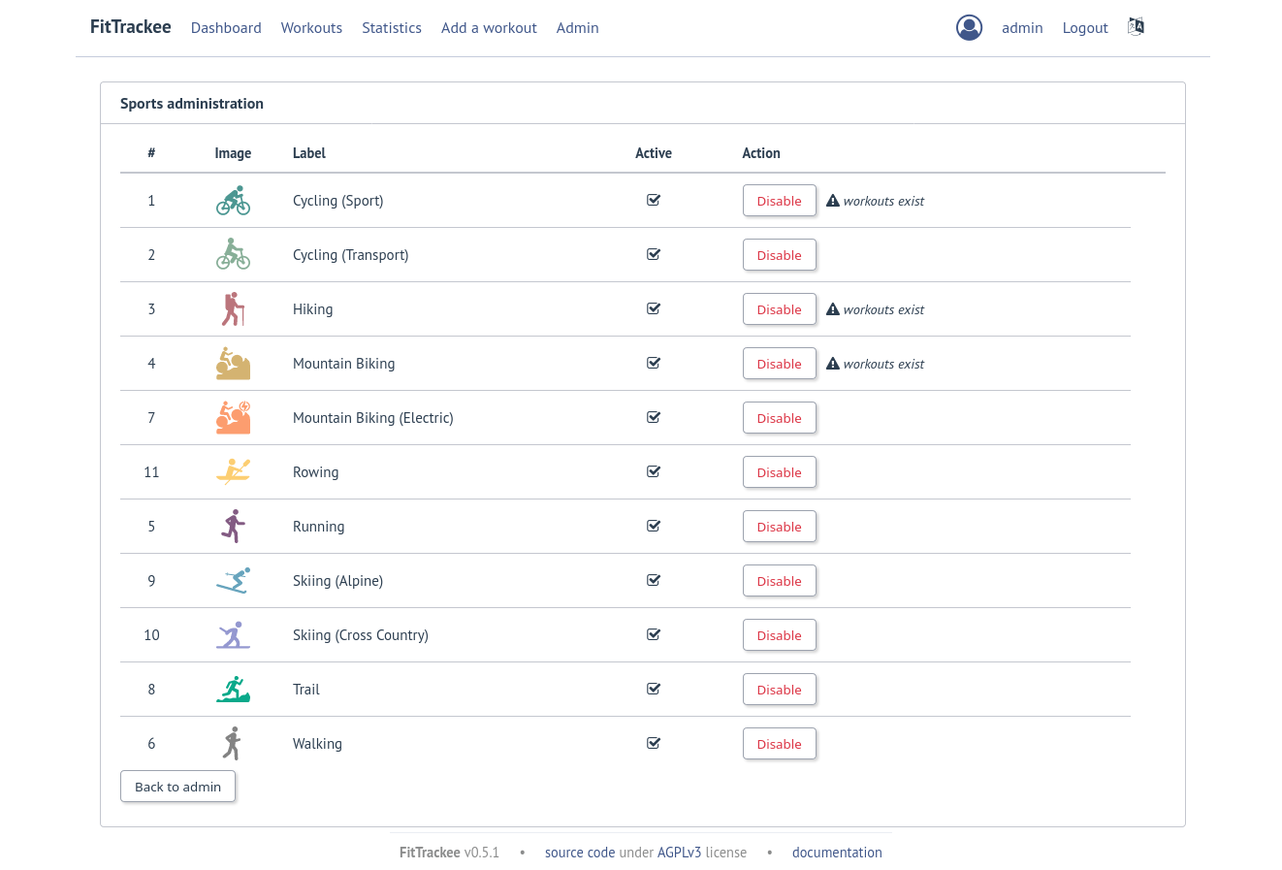
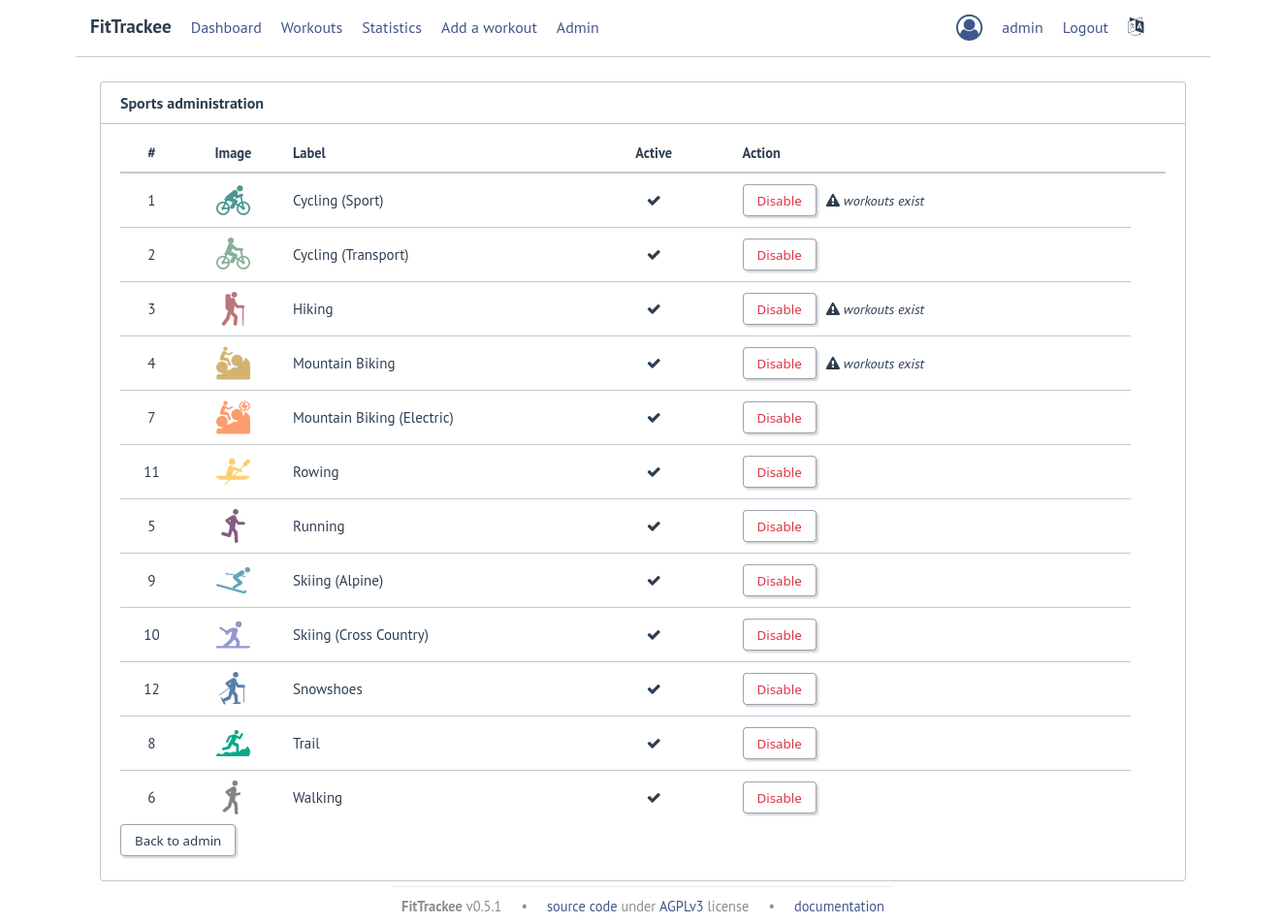
update documentation

diff --git a/docs/searchindex.js b/docs/searchindex.js
@@ -1,1 +1,1 @@
-Search.setIndex({docnames:["api/auth","api/configuration","api/index","api/records","api/sports","api/stats","api/users","api/workouts","changelog","features","index","installation","troubleshooting/administrator","troubleshooting/index","troubleshooting/user"],envversion:{"sphinx.domains.c":2,"sphinx.domains.changeset":1,"sphinx.domains.citation":1,"sphinx.domains.cpp":4,"sphinx.domains.index":1,"sphinx.domains.javascript":2,"sphinx.domains.math":2,"sphinx.domains.python":3,"sphinx.domains.rst":2,"sphinx.domains.std":2,sphinx:56},filenames:["api/auth.rst","api/configuration.rst","api/index.rst","api/records.rst","api/sports.rst","api/stats.rst","api/users.rst","api/workouts.rst","changelog.md","features.rst","index.rst","installation.rst","troubleshooting/administrator.rst","troubleshooting/index.rst","troubleshooting/user.rst"],objects:{"":[[0,0,1,"post--api-auth-login","/api/auth/login"],[0,1,1,"get--api-auth-logout","/api/auth/logout"],[0,0,1,"post--api-auth-password-reset-request","/api/auth/password/reset-request"],[0,0,1,"post--api-auth-password-update","/api/auth/password/update"],[0,2,1,"delete--api-auth-picture","/api/auth/picture"],[0,0,1,"post--api-auth-picture","/api/auth/picture"],[0,1,1,"get--api-auth-profile","/api/auth/profile"],[0,0,1,"post--api-auth-profile-edit","/api/auth/profile/edit"],[0,0,1,"post--api-auth-profile-edit-preferences","/api/auth/profile/edit/preferences"],[0,0,1,"post--api-auth-profile-edit-sports","/api/auth/profile/edit/sports"],[0,0,1,"post--api-auth-register","/api/auth/register"],[1,1,1,"get--api-config","/api/config"],[1,3,1,"patch--api-config","/api/config"],[1,1,1,"get--api-ping","/api/ping"],[3,1,1,"get--api-records","/api/records"],[4,1,1,"get--api-sports","/api/sports"],[4,1,1,"get--api-sports-(int-sport_id)","/api/sports/(int:sport_id)"],[4,3,1,"patch--api-sports-(int-sport_id)","/api/sports/(int:sport_id)"],[5,1,1,"get--api-stats-(user_name)-by_sport","/api/stats/(user_name)/by_sport"],[5,1,1,"get--api-stats-(user_name)-by_time","/api/stats/(user_name)/by_time"],[5,1,1,"get--api-stats-all","/api/stats/all"],[6,1,1,"get--api-users","/api/users"],[6,2,1,"delete--api-users-(user_name)","/api/users/(user_name)"],[6,1,1,"get--api-users-(user_name)","/api/users/(user_name)"],[6,3,1,"patch--api-users-(user_name)","/api/users/(user_name)"],[6,1,1,"get--api-users-(user_name)-picture","/api/users/(user_name)/picture"],[7,1,1,"get--api-workouts","/api/workouts"],[7,0,1,"post--api-workouts","/api/workouts"],[7,2,1,"delete--api-workouts-(string-workout_short_id)","/api/workouts/(string:workout_short_id)"],[7,1,1,"get--api-workouts-(string-workout_short_id)","/api/workouts/(string:workout_short_id)"],[7,3,1,"patch--api-workouts-(string-workout_short_id)","/api/workouts/(string:workout_short_id)"],[7,1,1,"get--api-workouts-(string-workout_short_id)-chart_data","/api/workouts/(string:workout_short_id)/chart_data"],[7,1,1,"get--api-workouts-(string-workout_short_id)-chart_data-segment-(int-segment_id)","/api/workouts/(string:workout_short_id)/chart_data/segment/(int:segment_id)"],[7,1,1,"get--api-workouts-(string-workout_short_id)-gpx","/api/workouts/(string:workout_short_id)/gpx"],[7,1,1,"get--api-workouts-(string-workout_short_id)-gpx-download","/api/workouts/(string:workout_short_id)/gpx/download"],[7,1,1,"get--api-workouts-(string-workout_short_id)-gpx-segment-(int-segment_id)","/api/workouts/(string:workout_short_id)/gpx/segment/(int:segment_id)"],[7,1,1,"get--api-workouts-map-(map_id)","/api/workouts/map/(map_id)"],[7,0,1,"post--api-workouts-no_gpx","/api/workouts/no_gpx"],[11,4,1,"-","APP_LOG"],[11,4,1,"-","APP_SECRET_KEY"],[11,4,1,"-","APP_SETTINGS"],[11,4,1,"-","APP_WORKERS"],[11,4,1,"-","DATABASE_DISABLE_POOLING"],[11,4,1,"-","DATABASE_URL"],[11,4,1,"envvar-DEFAULT_STATICMAP","DEFAULT_STATICMAP \ud83c\udd95"],[11,4,1,"-","EMAIL_URL"],[11,4,1,"-","FLASK_APP"],[11,4,1,"-","HOST"],[11,4,1,"-","MAP_ATTRIBUTION"],[11,4,1,"-","PORT"],[11,4,1,"-","REDIS_URL"],[11,4,1,"-","SENDER_EMAIL"],[11,4,1,"-","TILE_SERVER_URL"],[11,4,1,"-","UI_URL"],[11,4,1,"-","UPLOAD_FOLDER"],[11,4,1,"-","VUE_APP_API_URL"],[11,4,1,"-","WEATHER_API_KEY"],[11,4,1,"-","WORKERS_PROCESSES"]],"/api/workouts/map_tile/(s)/(z)/(x)/(y)":[[7,1,1,"get--api-workouts-map_tile-(s)-(z)-(x)-(y).png","png"]]},objnames:{"0":["http","post","HTTP post"],"1":["http","get","HTTP get"],"2":["http","delete","HTTP delete"],"3":["http","patch","HTTP patch"],"4":["std","envvar","environment variable"]},objtypes:{"0":"http:post","1":"http:get","2":"http:delete","3":"http:patch","4":"std:envvar"},terms:{"0":[0,1,3,4,5,6,7,9,10,11],"00":[0,3,6,7],"000000":0,"01":[0,3,5,6,7,10],"02":[7,10],"03":[6,7,10],"04":[7,10],"06":5,"07":[0,3,6,7,10],"08":[0,3,6],"09":[0,6,10],"0mb":[0,7],"1":[0,1,3,4,5,6,7,9,10,11],"10":[0,1,3,6,7,10,11],"100":[7,8,9],"1000":5,"101":8,"104":8,"1048576":1,"10485760":1,"109":8,"11":[0,3,6,9,10],"115":8,"116":8,"12":[0,3,6,7,10],"1232004":7,"12341":5,"1234538":7,"1267":5,"127":11,"13":[7,8],"14":[0,6,7,10],"15":[5,7,10],"150":5,"156":5,"1563529507772":7,"16":[5,7,10],"17":[7,10,11],"178":5,"18":[0,3,6,7,8],"19":10,"2":[0,1,3,4,5,6,7,10,11],"20":6,"200":[0,1,3,4,5,6,7],"201":[0,7],"2017":[5,7],"2018":[5,7,10],"2019":[0,3,5,6,7,10],"2020":10,"2021":10,"203":5,"204":[0,6,7],"21":10,"22":[7,8],"23":10,"24":8,"25":[8,11],"26":8,"27":[0,6],"279":7,"28":8,"280":7,"282":5,"29":10,"2930":7,"2e1ee2c":8,"3":[0,4,5,6,7,9,10,11],"30":[5,10],"3000":11,"301":11,"31":[7,10],"33":8,"34":8,"34614d5":8,"36":8,"37":8,"39":7,"4":[0,4,5,6,7,10,11],"40":8,"400":[0,1,4,7],"401":[0,1,3,4,5,6,7],"403":[0,1,4,5,6,7],"404":[0,4,5,6,7],"41":8,"4109":7,"413":[0,7],"43":8,"44":[7,8],"443":11,"45":7,"46":[5,8],"465":11,"47":[5,7,8],"48":5,"4c3fc34":8,"5":[1,4,5,6,7,9,10,11],"50":[0,6,8],"500":[0,1,4,6,7],"5000":11,"5078118":7,"5079733":7,"51":7,"53":8,"54":8,"5432":11,"57":[7,8],"58":[0,6,8],"587":11,"59":8,"6":[0,4,6,7,10],"613":5,"62":8,"63":7,"64":8,"66":8,"67":[0,6],"7":[7,10,11],"70":8,"71":8,"72":8,"7380":7,"75":8,"78":5,"79":8,"8":[0,7,10],"80":[8,11],"8025":11,"81":8,"82":8,"83":8,"84":8,"895":[0,6],"9":[0,3,6,10,11],"90":8,"91":8,"93":8,"95":[5,8],"98":8,"99":[5,8],"9960":5,"boolean":[0,1,6],"case":9,"default":[5,6,7,8,9,11],"do":[1,4,5,6,7],"export":10,"float":[0,7],"import":[8,11],"int":[4,7],"new":[0,9,11],"null":[0,4,6,7],"return":[3,7,11],"short":7,"static":[8,11],"switch":8,"true":[0,1,4,6,8,11],"try":[0,6,7],A:[6,8,9],AS:[0,3,6,7],For:[9,11],If:[9,11],In:[8,9],It:[8,9,10,12],NO:[0,6,7],NOT:[0,4,7],No:[0,6,7,8,10],Not:[4,5,6,7],OF:11,ON:11,On:11,One:11,TO:11,The:[8,9,11],There:11,To:11,WITH:11,With:11,_:8,__main__:11,_blank:11,access:11,account:[6,8],acit:7,activ:[4,8,9,10,11],ad:[0,8,9],adapt:11,add:[6,8,9,10],addit:11,address:11,admin:[0,1,3,4,5,6,7,8,9,11],administr:[0,6,7,10,13],after:[8,11],again:[0,1,3,4,5,6,7],agplv3:8,all:[3,4,5,6,11],allow:[0,1,7,8,10],along:7,alpin:9,alreadi:0,also:[8,10,11],altitud:8,alwai:11,an:[1,4,6,7,8,9,11],android:10,anoth:[6,11],anymor:8,apach:10,api:[0,1,3,4,5,6,7,8,9,10,11],apikei:11,app:10,app_log:11,app_secret_kei:11,app_set:11,app_work:11,appear:9,applic:[0,1,3,4,5,6,7,8,9,10,11],ar:[3,7,8,9,10,11,12],arch:11,archiv:[1,8,9,11],archlinux:11,asc:6,ascent:[7,9],attribut:11,auth:[0,1,3,4,5,6,7],auth_token:0,authent:[1,2,3,4,7,10],author:[0,1,3,4,5,6,7],avail:[0,3,9,10,11],ave_spe:7,ave_speed_from:7,ave_speed_to:7,averag:[3,7,8,9],average_spe:5,axi:7,b862a77:8,b:11,background:8,backup:11,bad:[0,1,4,7],bearer:[0,1,3,4,5,6,7],becom:8,been:8,befor:[8,11],begin:11,better:8,between:9,bike:[4,7,8,9],bin:11,bio:[0,6],biographi:0,birth:[0,8],birth_dat:[0,6],bound:7,build:11,button:8,by_sport:5,by_tim:5,c:7,calcul:8,calendar:[8,9],can:[6,8,9,10,11,12],cannot:8,cd:11,chang:[9,10,11],charact:[0,8],chart:[7,8,9,11],chart_data:7,check:[1,11,12],choos:[8,9],client:[8,11],client_max_body_s:11,clone:11,code:[0,1,3,4,5,6,7],color:[0,4,8,9],com:[0,6,11],complet:8,config:[1,11],configur:[2,8,9,10,11],confirm:0,contact:[0,6,7],contain:[8,9,11],content:[0,1,3,4,5,6,7],contributor:[1,8,11],control:8,coordin:11,copi:[1,11],copyright:[1,11],correctli:8,countri:9,cp:11,creat:[0,7,8,9,11],create_app:11,created_at:[0,6],creation:[8,9],creation_d:7,credenti:[0,11],criteria:6,cross:9,current:8,custom:11,cycl:[4,8,9],d:[0,5,7],dai:[8,9],dark:11,darkski:[8,9],dashboard:[8,10],data:[0,1,3,4,5,6,7,8,9,10,11],databas:[8,9,11,12],database_disable_pool:11,database_url:[8,11],date:[0,5,7,8,9],db:11,debian:11,default_staticmap:[8,11],defin:9,definit:8,delet:[0,6,7,8,9],depend:[8,11],deploy:10,desc:7,descent:[7,9],describ:11,descript:11,detail:[6,8,10],develop:[8,10],dialect:12,differ:8,directli:11,directori:[8,11],disabl:[0,8,9,11],displai:[7,8,9,10,11,12],distanc:[3,7,8,9],distance_from:7,distance_to:7,distribut:11,docker:[8,10],document:[8,10,11],doe:[0,5,6,7,8],don:0,down:8,download:[7,8,9,11],dramatiq:11,drop:8,dropdown:9,due:8,durat:[3,7,8,9],duration_from:7,duration_to:7,dure:[0,7],easi:8,edit:[0,8,9],electr:9,elev:[7,8,9,11],els:11,email:[0,6,8],email_url:11,empti:8,en:[0,6],enabl:[1,9],encount:11,end:[5,7],endpoint:[1,8],engin:[8,11,12],english:9,enter:[8,9],entiti:[0,7],entri:11,env:11,environ:[8,10,12],error:[0,1,4,6,7,8,9,11,12],europ:[0,6],evalu:[8,11],even:[8,9],exampl:[0,1,3,4,5,6,7,10,11],exc:12,exce:[0,7],exceed:8,except:6,execstart:11,exhaust:10,exist:[0,5,6,7,9,10,11],expir:[0,1,3,4,5,6,7],extens:[0,7],fa33f4d996844a5c73ecd1ae24456ab8:7,fail:[8,13],fals:[0,1,4,6,7,11],farest:[3,8,9],fd:[0,3,6,7],featur:[10,11],fetch:11,file:[0,1,7,8,9,10,11],filter:[8,9],first:[0,9,10],first_nam:[0,6],fitotrack:10,fittracke:[9,11,13],fittrackee_cli:11,fittrackee_init_data:11,fittrackee_upgrade_db:11,fittrackee_work:11,fix:10,flask:11,flask_app:11,flaticon:11,fmstrat:8,follow:[3,9,11,12],forbidden:[0,1,4,5,6,7],forecast:11,form:[0,7],format:[0,5,7],former:11,forrunn:10,forward:11,found:[0,4,5,6,7],fr:6,frame:5,freepik:11,french:[9,10],fri:7,from:[5,7,8,10],full:8,fullchain:11,gener:[8,11],get:[0,1,3,4,5,6,7],gif:0,git:11,github:11,given:11,gmt:[0,3,6,7],gpl:10,gpx:[7,8,9,10,11],gpx_limit_import:1,gpxpy:[0,9,11],grant:11,graph:8,greater:8,gunicorn:[11,12],gz:11,h:[7,9],ha:[6,9],handl:[0,9,11],has_workout:4,have:[1,4,5,6,7,8],he:6,header:[0,1,3,4,5,6,7],health:1,heavi:[10,11],hexadecim:0,hi:[6,8,9],hike:[4,8,9],home:11,host:11,href:[1,11],http:[0,1,3,4,5,6,7,11],hvybqybra7wwxpastwr4v2:[0,3,6],i18n:8,icon:11,id:[0,3,4,5,6,7],imag:[0,6,7,8,9,11],imperi:[8,9],imperial_unit:[0,6],improv:10,incorrect:8,index:7,info:0,inform:[8,10,11],init:11,initi:11,initialis:11,insid:11,instal:[8,10],instanc:[1,9,11],instead:9,integ:[1,4,5,6,7],interceptor:8,interfac:11,intern:[0,1,4,6,7],introduc:8,invalid:[0,1,3,4,5,6,7,8,11],io:11,ip:11,is_act:[0,4],is_active_for_us:4,is_registration_en:1,issu:[10,11],jan:7,javascript:8,john_do:6,jpeg:6,jpg:0,js:11,json:[0,1,3,4,5,6,7],jul:[0,3,6,7],keep:[8,10,11],kei:[8,9,11],kjxavsturjvoah2wvcegef:7,km:[7,9],label:4,languag:[0,6,9],larg:[0,7,9],larger:11,last:[0,11],last_nam:[0,6],latitud:7,layer:[8,11],ld:[0,3,6,7],leaflet:[7,11],least:7,less:8,librari:11,licens:[8,10],like:[9,11],limit:[8,9],link:11,linux:11,list:[8,10,11],listen:11,load:[8,12],local:[8,10,11],localhost:11,locat:[0,6,11],log:[0,1,3,4,5,6,7,10,11,12],logfil:11,login:0,logo:11,logout:[0,8],longer:[8,12],longest:[3,8,9],longitud:7,m:[0,5,7],made:11,mai:[9,10,11],mailhog:11,major:8,make:[8,11],makefil:11,manag:8,mandatori:[7,8,11],map:[7,8,9,10],map_attribut:[1,11],map_id:7,map_til:7,match:0,max:[1,6,7,8],max_alt:7,max_single_file_s:1,max_spe:7,max_speed_from:7,max_speed_to:7,max_us:1,max_zip_file_s:1,maxim:7,maximum:[3,8,9],messag:[0,1,7,8],method:11,metric:9,migrat:8,min:8,min_alt:7,minim:7,minor:10,miss:8,mobil:10,model:8,modifi:[6,8],modification_d:7,modul:11,mon:7,mondai:[0,5,9],montain:8,month:[5,8,9],more:[8,9,10,11],morn:7,mountain:[4,9],mous:8,move:[7,8],movement:8,mpwoadmin:11,ms:[0,3,6,7],multi:11,multipart:[0,7],must:[0,1,4,8,9,11,12],mv:11,n:0,name:[0,5,6,11],nano:11,nb_sport:[0,6],nb_workout:[0,5,6],necessari:[9,11],need:11,network:11,next:9,next_workout:7,nginx:[9,11],no_gpx:7,non:[4,10],noopen:11,noreferr:11,nosuchmoduleerror:12,note:[7,8,9,11],now:[8,9,11],number:[1,6,7,8,9,11],oauth:[0,1,3,4,5,6,7],object:[0,1,4,6,7],ok:[0,1,3,4,5,6,7],one:[6,7,9],onli:[6,7,8,9,11],open:[10,11],openstreetmap:[1,8,11],opentrack:10,option:[8,11],order:[6,7,8],order_bi:6,org:[1,11],os:11,other:[6,11],out:0,outdoor:[8,10,11],over:8,overrid:9,overridden:9,overwrit:11,own:[6,10],owner:[8,9],packag:[8,11],paf38:8,page:[6,7],pagin:[6,7],par_pag:6,paramet:[0,4,5,6,7,8,9],pari:[0,6],pars:11,part:[0,7],pass:11,password:[0,8,9,11],password_conf:0,patch:[1,4,6,7],path:11,paus:[7,8],payload:[0,1,4,7],pem:11,per:[6,7,8],per_pag:[6,7],period:9,permiss:[1,4,5,6,7],pg_dump:11,pictur:[0,6,7],ping:1,pip:11,pipenv:8,pleas:[0,1,3,4,5,6,7,8],plugin:12,png:[0,7,11],poetri:[8,11],point:[8,11],pong:1,pool:11,port:11,possibl:[8,10],post:[0,7],postgr:[8,12],postgresql:[8,11,12],prefer:[0,8],prerequisit:10,previous_workout:7,privileg:11,privkei:11,process:[0,9,11],productionconfig:11,profil:0,project:11,provid:[0,1,3,4,5,6,7,8,9,11],proxi:11,proxy_add_x_forwarded_for:11,proxy_pass:11,proxy_redirect:11,proxy_set_head:11,pull:11,purpos:[8,11],pwd:11,py:11,pypi:10,python:[8,11],q:6,queri:[5,6,7],queue:11,r:11,rais:9,read:8,real:11,rebuild:8,rechart:7,recommend:11,record:[0,2,6,7,8,9,10],record_typ:[0,3,6,7],redi:[8,11],redis_url:11,refactor:8,regist:[0,1,11],registr:[0,1,8,9],rel:11,relat:[9,11],releas:[10,11],remain:8,remote_addr:11,remov:9,renam:8,replac:[8,11],repo:11,repositori:11,request:[0,1,3,4,5,6,7],request_uri:11,requir:0,reset:[0,8,9],respons:[0,1,3,4,5,6,7],restart:11,restartsec:11,right:[6,8,9],rout:8,row:9,run:[4,8,9,11],runner:10,s:[6,7,8,9,11],sam:[0,6],same:8,samr1:11,sat:6,save:[8,9],schema:11,screen:8,search:8,second:7,secret:11,see:[8,9,10,11],seem:8,segment:[7,8,9],segment_id:7,select:[0,7],send:[8,11],sender:11,sender_email:11,serv:11,server:[0,1,4,6,7,8,9,10],server_nam:11,servic:11,set:[8,9],sever:[10,11],shell:11,should:11,show:8,shown:8,side:8,signatur:[0,1,3,4,5,6,7],simpl:11,simplifi:8,sinc:11,singl:[1,6],size:[0,1,7,8,9],ski:9,sky:11,slow:8,smtp:11,some:[6,7,8,10,11],sorri:0,sort:[6,7],sourc:10,spawn:11,speed:[0,3,7,8,9,11],spinner:8,sport:[0,2,5,7,8,9,10,11],sport_id:[0,3,4,5,6,7],sports_list:[0,6],sql:11,sqlalchemi:[8,11,12],ssl:11,ssl_certif:11,ssl_certificate_kei:11,standard:[8,11],standarderror:11,standardoutput:11,start:[0,5,7,8,9,11,13],startlimitintervalsec:11,starttl:11,stat:[5,8],staticmap:11,statist:[2,10],statu:[0,1,3,4,5,6,7],step:11,still:[9,10],stop:[0,8,9,11],stopped_speed_threshold:[0,4],store:[9,10],street:10,string:[0,4,5,6,7],subdomain:7,success:[0,1,3,4,5,6,7],successfulli:0,sun:[0,3,6,7],sundai:[5,7,9],support:[8,9,12],syslog:11,syslogidentifi:11,system:[9,11],systemd:11,t:[0,12],tar:11,target:11,task:11,term:[8,11],test:11,textarea:8,than:8,thank:8,thei:11,them:10,thi:[7,8,9,10,11],threshold:[0,8,9],thunderforest:[8,11],tile:[7,8],tile_server_url:11,time:[0,5,7,8,9],timezon:[0,6,8,9],titl:7,tl:11,todo:14,token:[0,1,3,4,5,6,7],too:[0,7],tool:11,tooltip:8,total:[8,9],total_asc:5,total_dist:[0,5,6],total_dur:[0,5,6],track:10,trail:9,transport:[4,8,9],troubleshoot:10,type:[0,1,3,4,5,6,7,11],typescript:11,u:11,ui:8,ui_url:11,unauthor:[0,1,3,4,5,6,7],under:[10,11],unencrypt:11,unit:[8,11],unstabl:[10,11],up:[9,10],updat:[0,1,4,6,7,8,9,11],upload:[8,9,11],upload_fold:11,uploads_dir_s:5,url:[8,11,12],us:[0,6,7,8,9,10,11],user:[0,1,2,3,4,5,7,8,9,10,11,13],user_id:0,user_nam:[5,6],usernam:[0,6,11],uuid:[7,8],v0:11,v3:10,valid:[0,1,3,4,5,6,7,11],valu:[0,3,6,7],variabl:[8,10,12],venv:11,version:[1,10,11],view:8,virtualenv:11,vue3:11,vue:11,vue_app_api_url:11,vuex:11,wa:8,wai:11,walk:[4,8,9],wantedbi:11,warn:8,weather:[8,9,11],weather_api:11,weather_api_kei:11,weather_end:7,weather_start:7,web:[0,10,11],week:[0,5,8,9],weekend:8,weekm:[0,5],were:8,wget:11,when:[0,1,8,9,11],where:11,which:9,with_gpx:7,without:[5,6,7,8,9,10],worker:11,workers_process:11,workingdirectori:11,workout:[0,2,5,8,10],workout_d:[0,3,6,7],workout_id:[0,3,6,7],workout_short_id:7,workouts_count:6,written:11,www:[1,11],x:[7,11],xml:7,xxxx:11,xzf:11,y:[0,5,7,11],yai:11,yarn:11,year:[5,9],yet:10,you:[1,4,5,6,7,10],your:[6,10,11],z:[7,11],zip:[1,7,8,9],zone:0,zoom:7},titles:["Authentication","Configuration","API documentation","Records","Sports","Statistics","Users","Workouts","Change log","Features","FitTrackee","Installation","Administrator","Troubleshooting","User"],titleterms:{"0":8,"01":8,"02":8,"03":8,"04":8,"07":8,"09":8,"1":8,"10":8,"11":8,"12":8,"14":8,"15":8,"16":8,"17":8,"19":8,"2":8,"2018":8,"2019":8,"2020":8,"2021":8,"21":8,"23":8,"29":8,"3":8,"30":8,"31":8,"4":8,"5":8,"6":8,"7":8,"8":8,"9":8,"new":8,account:9,administr:[8,9,12],api:2,authent:0,avail:8,bug:8,chang:8,close:8,configur:1,content:10,dashboard:9,deploy:11,detail:9,dev:11,develop:11,docker:11,document:2,email:11,endpoint:[2,13],environ:11,fail:12,featur:[8,9],first:8,fittracke:[8,10,12],fix:8,french:8,from:11,improv:8,instal:11,issu:8,list:9,log:8,map:11,minor:8,misc:8,prefer:9,prerequisit:11,prod:11,product:11,pull:8,pypi:[8,11],record:3,releas:8,request:8,server:11,sourc:11,sport:4,start:12,statist:[5,8,9],tabl:10,tile:11,translat:9,troubleshoot:13,upgrad:11,user:[6,14],variabl:11,version:8,workout:[7,9]}})
+Search.setIndex({docnames:["api/auth","api/configuration","api/index","api/records","api/sports","api/stats","api/users","api/workouts","changelog","features","index","installation","troubleshooting/administrator","troubleshooting/index","troubleshooting/user"],envversion:{"sphinx.domains.c":2,"sphinx.domains.changeset":1,"sphinx.domains.citation":1,"sphinx.domains.cpp":4,"sphinx.domains.index":1,"sphinx.domains.javascript":2,"sphinx.domains.math":2,"sphinx.domains.python":3,"sphinx.domains.rst":2,"sphinx.domains.std":2,sphinx:56},filenames:["api/auth.rst","api/configuration.rst","api/index.rst","api/records.rst","api/sports.rst","api/stats.rst","api/users.rst","api/workouts.rst","changelog.md","features.rst","index.rst","installation.rst","troubleshooting/administrator.rst","troubleshooting/index.rst","troubleshooting/user.rst"],objects:{"":[[0,0,1,"post--api-auth-login","/api/auth/login"],[0,1,1,"get--api-auth-logout","/api/auth/logout"],[0,0,1,"post--api-auth-password-reset-request","/api/auth/password/reset-request"],[0,0,1,"post--api-auth-password-update","/api/auth/password/update"],[0,2,1,"delete--api-auth-picture","/api/auth/picture"],[0,0,1,"post--api-auth-picture","/api/auth/picture"],[0,1,1,"get--api-auth-profile","/api/auth/profile"],[0,0,1,"post--api-auth-profile-edit","/api/auth/profile/edit"],[0,0,1,"post--api-auth-profile-edit-preferences","/api/auth/profile/edit/preferences"],[0,0,1,"post--api-auth-profile-edit-sports","/api/auth/profile/edit/sports"],[0,0,1,"post--api-auth-register","/api/auth/register"],[1,1,1,"get--api-config","/api/config"],[1,3,1,"patch--api-config","/api/config"],[1,1,1,"get--api-ping","/api/ping"],[3,1,1,"get--api-records","/api/records"],[4,1,1,"get--api-sports","/api/sports"],[4,1,1,"get--api-sports-(int-sport_id)","/api/sports/(int:sport_id)"],[4,3,1,"patch--api-sports-(int-sport_id)","/api/sports/(int:sport_id)"],[5,1,1,"get--api-stats-(user_name)-by_sport","/api/stats/(user_name)/by_sport"],[5,1,1,"get--api-stats-(user_name)-by_time","/api/stats/(user_name)/by_time"],[5,1,1,"get--api-stats-all","/api/stats/all"],[6,1,1,"get--api-users","/api/users"],[6,2,1,"delete--api-users-(user_name)","/api/users/(user_name)"],[6,1,1,"get--api-users-(user_name)","/api/users/(user_name)"],[6,3,1,"patch--api-users-(user_name)","/api/users/(user_name)"],[6,1,1,"get--api-users-(user_name)-picture","/api/users/(user_name)/picture"],[7,1,1,"get--api-workouts","/api/workouts"],[7,0,1,"post--api-workouts","/api/workouts"],[7,2,1,"delete--api-workouts-(string-workout_short_id)","/api/workouts/(string:workout_short_id)"],[7,1,1,"get--api-workouts-(string-workout_short_id)","/api/workouts/(string:workout_short_id)"],[7,3,1,"patch--api-workouts-(string-workout_short_id)","/api/workouts/(string:workout_short_id)"],[7,1,1,"get--api-workouts-(string-workout_short_id)-chart_data","/api/workouts/(string:workout_short_id)/chart_data"],[7,1,1,"get--api-workouts-(string-workout_short_id)-chart_data-segment-(int-segment_id)","/api/workouts/(string:workout_short_id)/chart_data/segment/(int:segment_id)"],[7,1,1,"get--api-workouts-(string-workout_short_id)-gpx","/api/workouts/(string:workout_short_id)/gpx"],[7,1,1,"get--api-workouts-(string-workout_short_id)-gpx-download","/api/workouts/(string:workout_short_id)/gpx/download"],[7,1,1,"get--api-workouts-(string-workout_short_id)-gpx-segment-(int-segment_id)","/api/workouts/(string:workout_short_id)/gpx/segment/(int:segment_id)"],[7,1,1,"get--api-workouts-map-(map_id)","/api/workouts/map/(map_id)"],[7,0,1,"post--api-workouts-no_gpx","/api/workouts/no_gpx"],[11,4,1,"-","APP_LOG"],[11,4,1,"-","APP_SECRET_KEY"],[11,4,1,"-","APP_SETTINGS"],[11,4,1,"-","APP_WORKERS"],[11,4,1,"-","DATABASE_DISABLE_POOLING"],[11,4,1,"-","DATABASE_URL"],[11,4,1,"envvar-DEFAULT_STATICMAP","DEFAULT_STATICMAP \ud83c\udd95"],[11,4,1,"-","EMAIL_URL"],[11,4,1,"-","FLASK_APP"],[11,4,1,"-","HOST"],[11,4,1,"-","MAP_ATTRIBUTION"],[11,4,1,"-","PORT"],[11,4,1,"-","REDIS_URL"],[11,4,1,"-","SENDER_EMAIL"],[11,4,1,"-","TILE_SERVER_URL"],[11,4,1,"-","UI_URL"],[11,4,1,"-","UPLOAD_FOLDER"],[11,4,1,"-","VUE_APP_API_URL"],[11,4,1,"-","WEATHER_API_KEY"],[11,4,1,"-","WORKERS_PROCESSES"]],"/api/workouts/map_tile/(s)/(z)/(x)/(y)":[[7,1,1,"get--api-workouts-map_tile-(s)-(z)-(x)-(y).png","png"]]},objnames:{"0":["http","post","HTTP post"],"1":["http","get","HTTP get"],"2":["http","delete","HTTP delete"],"3":["http","patch","HTTP patch"],"4":["std","envvar","environment variable"]},objtypes:{"0":"http:post","1":"http:get","2":"http:delete","3":"http:patch","4":"std:envvar"},terms:{"0":[0,1,3,4,5,6,7,9,10,11],"00":[0,3,6,7],"000000":0,"01":[0,3,5,6,7,10],"02":[7,10],"03":[6,7,10],"04":[7,10],"06":5,"07":[0,3,6,7,10],"08":[0,3,6],"09":[0,6,10],"0mb":[0,7],"1":[0,1,3,4,5,6,7,9,10,11],"10":[0,1,3,6,7,10,11],"100":[7,8,9],"1000":5,"101":8,"104":8,"1048576":1,"10485760":1,"109":8,"11":[0,3,6,9,10],"115":8,"116":8,"12":[0,3,6,7,10],"1232004":7,"12341":5,"1234538":7,"1267":5,"127":11,"13":[7,8],"14":[0,6,7,10],"15":[5,7,10],"150":5,"156":5,"1563529507772":7,"16":[5,7,10],"17":[7,10,11],"178":5,"18":[0,3,6,7,8],"19":10,"2":[0,1,3,4,5,6,7,9,10,11],"20":6,"200":[0,1,3,4,5,6,7],"201":[0,7],"2017":[5,7],"2018":[5,7,10],"2019":[0,3,5,6,7,10],"2020":10,"2021":10,"203":5,"204":[0,6,7],"21":10,"22":[7,8],"23":10,"24":8,"25":[8,11],"26":8,"27":[0,6],"279":7,"28":8,"280":7,"282":5,"29":10,"2930":7,"2e1ee2c":8,"3":[0,4,5,6,7,9,10,11],"30":[5,10],"3000":11,"301":11,"31":[7,10],"33":8,"34":8,"34614d5":8,"36":8,"37":8,"39":7,"4":[0,4,5,6,7,10,11],"40":8,"400":[0,1,4,7],"401":[0,1,3,4,5,6,7],"403":[0,1,4,5,6,7],"404":[0,4,5,6,7],"41":8,"4109":7,"413":[0,7],"43":8,"44":[7,8],"443":11,"45":7,"46":[5,8],"465":11,"47":[5,7,8],"48":5,"4c3fc34":8,"5":[1,4,5,6,7,9,10,11],"50":[0,6,8],"500":[0,1,4,6,7],"5000":11,"5078118":7,"5079733":7,"51":7,"53":8,"54":8,"5432":11,"57":[7,8],"58":[0,6,8],"587":11,"59":8,"6":[0,4,6,7,10],"613":5,"62":8,"63":7,"64":8,"66":8,"67":[0,6],"7":[7,10,11],"70":8,"71":8,"72":8,"7380":7,"75":8,"78":5,"79":8,"8":[0,7,10],"80":[8,11],"8025":11,"81":8,"82":8,"83":8,"84":8,"895":[0,6],"9":[0,3,6,10,11],"90":8,"91":8,"93":8,"95":[5,8],"98":8,"99":[5,8],"9960":5,"boolean":[0,1,6],"case":9,"default":[5,6,7,8,9,11],"do":[1,4,5,6,7],"export":10,"float":[0,7],"import":[8,11],"int":[4,7],"new":[0,9,11],"null":[0,4,6,7],"return":[3,7,11],"short":7,"static":[8,11],"switch":8,"true":[0,1,4,6,8,11],"try":[0,6,7],A:[6,8,9],AS:[0,3,6,7],For:[9,11],If:[9,11],In:[8,9],It:[8,9,10,12],NO:[0,6,7],NOT:[0,4,7],No:[0,6,7,8,10],Not:[4,5,6,7],OF:11,ON:11,On:11,One:11,TO:11,The:[8,9,11],There:11,To:11,WITH:11,With:11,_:8,__main__:11,_blank:11,access:11,account:[6,8],acit:7,activ:[4,8,9,10,11],ad:[0,8,9],adapt:11,add:[6,8,9,10],addit:11,address:11,admin:[0,1,3,4,5,6,7,8,9,11],administr:[0,6,7,10,13],after:[8,11],again:[0,1,3,4,5,6,7],agplv3:8,all:[3,4,5,6,11],allow:[0,1,7,8,10],along:7,alpin:9,alreadi:0,also:[8,10,11],altitud:8,alwai:11,an:[1,4,6,7,8,9,11],android:10,anoth:[6,11],anymor:8,apach:10,api:[0,1,3,4,5,6,7,8,9,10,11],apikei:11,app:10,app_log:11,app_secret_kei:11,app_set:11,app_work:11,appear:9,applic:[0,1,3,4,5,6,7,8,9,10,11],ar:[3,7,8,9,10,11,12],arch:11,archiv:[1,8,9,11],archlinux:11,asc:6,ascent:[7,9],attribut:11,auth:[0,1,3,4,5,6,7],auth_token:0,authent:[1,2,3,4,7,10],author:[0,1,3,4,5,6,7],avail:[0,3,9,10,11],ave_spe:7,ave_speed_from:7,ave_speed_to:7,averag:[3,7,8,9],average_spe:5,axi:7,b862a77:8,b:11,background:8,backup:11,bad:[0,1,4,7],bearer:[0,1,3,4,5,6,7],becom:8,been:8,befor:[8,11],begin:11,better:8,between:9,bike:[4,7,8,9],bin:11,bio:[0,6],biographi:0,birth:[0,8],birth_dat:[0,6],bound:7,build:11,button:8,by_sport:5,by_tim:5,c:7,calcul:8,calendar:[8,9],can:[6,8,9,10,11,12],cannot:8,cd:11,chang:[9,10,11],charact:[0,8],chart:[7,8,9,11],chart_data:7,check:[1,11,12],choos:[8,9],client:[8,11],client_max_body_s:11,clone:11,code:[0,1,3,4,5,6,7],color:[0,4,8,9],com:[0,6,11],complet:8,config:[1,11],configur:[2,8,9,10,11],confirm:0,contact:[0,6,7],contain:[8,9,11],content:[0,1,3,4,5,6,7],contributor:[1,8,11],control:8,coordin:11,copi:[1,11],copyright:[1,11],correctli:8,countri:9,cp:11,creat:[0,7,8,9,11],create_app:11,created_at:[0,6],creation:[8,9],creation_d:7,credenti:[0,11],criteria:6,cross:9,current:8,custom:11,cycl:[4,8,9],d:[0,5,7],dai:[8,9],dark:11,darkski:[8,9],dashboard:[8,10],data:[0,1,3,4,5,6,7,8,9,10,11],databas:[8,9,11,12],database_disable_pool:11,database_url:[8,11],date:[0,5,7,8,9],db:11,debian:11,default_staticmap:[8,11],defin:9,definit:8,delet:[0,6,7,8,9],depend:[8,11],deploy:10,desc:7,descent:[7,9],describ:11,descript:11,detail:[6,8,10],develop:[8,10],dialect:12,differ:8,directli:11,directori:[8,11],disabl:[0,8,9,11],displai:[7,8,9,10,11,12],distanc:[3,7,8,9],distance_from:7,distance_to:7,distribut:11,docker:[8,10],document:[8,10,11],doe:[0,5,6,7,8],don:0,down:8,download:[7,8,9,11],dramatiq:11,drop:8,dropdown:9,due:8,durat:[3,7,8,9],duration_from:7,duration_to:7,dure:[0,7],easi:8,edit:[0,8,9],electr:9,elev:[7,8,9,11],els:11,email:[0,6,8],email_url:11,empti:8,en:[0,6],enabl:[1,9],encount:11,end:[5,7],endpoint:[1,8],engin:[8,11,12],english:9,enter:[8,9],entiti:[0,7],entri:11,env:11,environ:[8,10,12],error:[0,1,4,6,7,8,9,11,12],europ:[0,6],evalu:[8,11],even:[8,9],exampl:[0,1,3,4,5,6,7,10,11],exc:12,exce:[0,7],exceed:8,except:6,execstart:11,exhaust:10,exist:[0,5,6,7,9,10,11],expir:[0,1,3,4,5,6,7],extens:[0,7],fa33f4d996844a5c73ecd1ae24456ab8:7,fail:[8,13],fals:[0,1,4,6,7,11],farest:[3,8,9],fd:[0,3,6,7],featur:[10,11],fetch:11,file:[0,1,7,8,9,10,11],filter:[8,9],first:[0,9,10],first_nam:[0,6],fitotrack:10,fittracke:[9,11,13],fittrackee_cli:11,fittrackee_init_data:11,fittrackee_upgrade_db:11,fittrackee_work:11,fix:10,flask:11,flask_app:11,flaticon:11,fmstrat:8,follow:[3,9,11,12],forbidden:[0,1,4,5,6,7],forecast:11,form:[0,7],format:[0,5,7],former:11,forrunn:10,forward:11,found:[0,4,5,6,7],fr:6,frame:5,freepik:11,french:[9,10],fri:7,from:[5,7,8,10],full:8,fullchain:11,gener:[8,11],get:[0,1,3,4,5,6,7],gif:0,git:11,github:11,given:11,gmt:[0,3,6,7],gpl:10,gpx:[7,8,9,10,11],gpx_limit_import:1,gpxpy:[0,9,11],grant:11,graph:8,greater:8,gunicorn:[11,12],gz:11,h:[7,9],ha:[6,9],handl:[0,9,11],has_workout:4,have:[1,4,5,6,7,8],he:6,header:[0,1,3,4,5,6,7],health:1,heavi:[10,11],hexadecim:0,hi:[6,8,9],hike:[4,8,9],home:11,host:11,href:[1,11],http:[0,1,3,4,5,6,7,11],hvybqybra7wwxpastwr4v2:[0,3,6],i18n:8,icon:11,id:[0,3,4,5,6,7],imag:[0,6,7,8,9,11],imperi:[8,9],imperial_unit:[0,6],improv:10,incorrect:8,index:7,info:0,inform:[8,10,11],init:11,initi:11,initialis:11,insid:11,instal:[8,10],instanc:[1,9,11],instead:9,integ:[1,4,5,6,7],interceptor:8,interfac:11,intern:[0,1,4,6,7],introduc:8,invalid:[0,1,3,4,5,6,7,8,11],io:11,ip:11,is_act:[0,4],is_active_for_us:4,is_registration_en:1,issu:[10,11],jan:7,javascript:8,john_do:6,jpeg:6,jpg:0,js:11,json:[0,1,3,4,5,6,7],jul:[0,3,6,7],keep:[8,10,11],kei:[8,9,11],kjxavsturjvoah2wvcegef:7,km:[7,9],label:4,languag:[0,6,9],larg:[0,7,9],larger:11,last:[0,11],last_nam:[0,6],latitud:7,layer:[8,11],ld:[0,3,6,7],leaflet:[7,11],least:7,less:8,librari:11,licens:[8,10],like:[9,11],limit:[8,9],link:11,linux:11,list:[8,10,11],listen:11,load:[8,12],local:[8,10,11],localhost:11,locat:[0,6,11],log:[0,1,3,4,5,6,7,10,11,12],logfil:11,login:0,logo:11,logout:[0,8],longer:[8,12],longest:[3,8,9],longitud:7,m:[0,5,7],made:11,mai:[9,10,11],mailhog:11,major:8,make:[8,11],makefil:11,manag:8,mandatori:[7,8,11],map:[7,8,9,10],map_attribut:[1,11],map_id:7,map_til:7,match:0,max:[1,6,7,8],max_alt:7,max_single_file_s:1,max_spe:7,max_speed_from:7,max_speed_to:7,max_us:1,max_zip_file_s:1,maxim:7,maximum:[3,8,9],messag:[0,1,7,8],method:11,metric:9,migrat:8,min:8,min_alt:7,minim:7,minor:10,miss:8,mobil:10,model:8,modifi:[6,8],modification_d:7,modul:11,mon:7,mondai:[0,5,9],montain:8,month:[5,8,9],more:[8,9,10,11],morn:7,mountain:[4,9],mous:8,move:[7,8],movement:8,mpwoadmin:11,ms:[0,3,6,7],multi:11,multipart:[0,7],must:[0,1,4,8,9,11,12],mv:11,n:0,name:[0,5,6,11],nano:11,nb_sport:[0,6],nb_workout:[0,5,6],necessari:[9,11],need:11,network:11,next:9,next_workout:7,nginx:[9,11],no_gpx:7,non:[4,10],noopen:11,noreferr:11,nosuchmoduleerror:12,note:[7,8,9,11],now:[8,9,11],number:[1,6,7,8,9,11],oauth:[0,1,3,4,5,6,7],object:[0,1,4,6,7],ok:[0,1,3,4,5,6,7],one:[6,7,9],onli:[6,7,8,9,11],open:[10,11],openstreetmap:[1,8,11],opentrack:10,option:[8,11],order:[6,7,8],order_bi:6,org:[1,11],os:11,other:[6,11],out:0,outdoor:[8,10,11],over:8,overrid:9,overridden:9,overwrit:11,own:[6,10],owner:[8,9],packag:[8,11],paf38:8,page:[6,7],pagin:[6,7],par_pag:6,paramet:[0,4,5,6,7,8,9],pari:[0,6],pars:11,part:[0,7],pass:11,password:[0,8,9,11],password_conf:0,patch:[1,4,6,7],path:11,paus:[7,8],payload:[0,1,4,7],pem:11,per:[6,7,8],per_pag:[6,7],period:9,permiss:[1,4,5,6,7],pg_dump:11,pictur:[0,6,7],ping:1,pip:11,pipenv:8,pleas:[0,1,3,4,5,6,7,8],plugin:12,png:[0,7,11],poetri:[8,11],point:[8,11],pong:1,pool:11,port:11,possibl:[8,10],post:[0,7],postgr:[8,12],postgresql:[8,11,12],prefer:[0,8],prerequisit:10,previous_workout:7,privileg:11,privkei:11,process:[0,9,11],productionconfig:11,profil:0,project:11,provid:[0,1,3,4,5,6,7,8,9,11],proxi:11,proxy_add_x_forwarded_for:11,proxy_pass:11,proxy_redirect:11,proxy_set_head:11,pull:11,purpos:[8,11],pwd:11,py:11,pypi:10,python:[8,11],q:6,queri:[5,6,7],queue:11,r:11,rais:9,read:8,real:11,rebuild:8,rechart:7,recommend:11,record:[0,2,6,7,8,9,10],record_typ:[0,3,6,7],redi:[8,11],redis_url:11,refactor:8,regist:[0,1,11],registr:[0,1,8,9],rel:11,relat:[9,11],releas:[10,11],remain:8,remote_addr:11,remov:9,renam:8,replac:[8,11],repo:11,repositori:11,request:[0,1,3,4,5,6,7],request_uri:11,requir:0,reset:[0,8,9],respons:[0,1,3,4,5,6,7],restart:11,restartsec:11,right:[6,8,9],rout:8,row:9,run:[4,8,9,11],runner:10,s:[6,7,8,9,11],sam:[0,6],same:8,samr1:11,sat:6,save:[8,9],schema:11,screen:8,search:8,second:7,secret:11,see:[8,9,10,11],seem:8,segment:[7,8,9],segment_id:7,select:[0,7],send:[8,11],sender:11,sender_email:11,serv:11,server:[0,1,4,6,7,8,9,10],server_nam:11,servic:11,set:[8,9],sever:[10,11],shell:11,should:11,show:8,shown:8,side:8,signatur:[0,1,3,4,5,6,7],simpl:11,simplifi:8,sinc:11,singl:[1,6],size:[0,1,7,8,9],ski:9,sky:11,slow:8,smtp:11,snowsho:9,some:[6,7,8,10,11],sorri:0,sort:[6,7],sourc:10,spawn:11,speed:[0,3,7,8,9,11],spinner:8,sport:[0,2,5,7,8,9,10,11],sport_id:[0,3,4,5,6,7],sports_list:[0,6],sql:11,sqlalchemi:[8,11,12],ssl:11,ssl_certif:11,ssl_certificate_kei:11,standard:[8,11],standarderror:11,standardoutput:11,start:[0,5,7,8,9,11,13],startlimitintervalsec:11,starttl:11,stat:[5,8],staticmap:11,statist:[2,10],statu:[0,1,3,4,5,6,7],step:11,still:[9,10],stop:[0,8,9,11],stopped_speed_threshold:[0,4],store:[9,10],street:10,string:[0,4,5,6,7],subdomain:7,success:[0,1,3,4,5,6,7],successfulli:0,sun:[0,3,6,7],sundai:[5,7,9],support:[8,9,12],syslog:11,syslogidentifi:11,system:[9,11],systemd:11,t:[0,12],tar:11,target:11,task:11,term:[8,11],test:11,textarea:8,than:8,thank:8,thei:11,them:10,thi:[7,8,9,10,11],threshold:[0,8,9],thunderforest:[8,11],tile:[7,8],tile_server_url:11,time:[0,5,7,8,9],timezon:[0,6,8,9],titl:7,tl:11,todo:14,token:[0,1,3,4,5,6,7],too:[0,7],tool:11,tooltip:8,total:[8,9],total_asc:5,total_dist:[0,5,6],total_dur:[0,5,6],track:10,trail:9,transport:[4,8,9],troubleshoot:10,type:[0,1,3,4,5,6,7,11],typescript:11,u:11,ui:8,ui_url:11,unauthor:[0,1,3,4,5,6,7],under:[10,11],unencrypt:11,unit:[8,11],unstabl:[10,11],up:[9,10],updat:[0,1,4,6,7,8,9,11],upload:[8,9,11],upload_fold:11,uploads_dir_s:5,url:[8,11,12],us:[0,6,7,8,9,10,11],user:[0,1,2,3,4,5,7,8,9,10,11,13],user_id:0,user_nam:[5,6],usernam:[0,6,11],uuid:[7,8],v0:11,v3:10,valid:[0,1,3,4,5,6,7,11],valu:[0,3,6,7],variabl:[8,10,12],venv:11,version:[1,10,11],view:8,virtualenv:11,vue3:11,vue:11,vue_app_api_url:11,vuex:11,wa:8,wai:11,walk:[4,8,9],wantedbi:11,warn:8,weather:[8,9,11],weather_api:11,weather_api_kei:11,weather_end:7,weather_start:7,web:[0,10,11],week:[0,5,8,9],weekend:8,weekm:[0,5],were:8,wget:11,when:[0,1,8,9,11],where:11,which:9,with_gpx:7,without:[5,6,7,8,9,10],worker:11,workers_process:11,workingdirectori:11,workout:[0,2,5,8,10],workout_d:[0,3,6,7],workout_id:[0,3,6,7],workout_short_id:7,workouts_count:6,written:11,www:[1,11],x:[7,11],xml:7,xxxx:11,xzf:11,y:[0,5,7,11],yai:11,yarn:11,year:[5,9],yet:10,you:[1,4,5,6,7,10],your:[6,10,11],z:[7,11],zip:[1,7,8,9],zone:0,zoom:7},titles:["Authentication","Configuration","API documentation","Records","Sports","Statistics","Users","Workouts","Change log","Features","FitTrackee","Installation","Administrator","Troubleshooting","User"],titleterms:{"0":8,"01":8,"02":8,"03":8,"04":8,"07":8,"09":8,"1":8,"10":8,"11":8,"12":8,"14":8,"15":8,"16":8,"17":8,"19":8,"2":8,"2018":8,"2019":8,"2020":8,"2021":8,"21":8,"23":8,"29":8,"3":8,"30":8,"31":8,"4":8,"5":8,"6":8,"7":8,"8":8,"9":8,"new":8,account:9,administr:[8,9,12],api:2,authent:0,avail:8,bug:8,chang:8,close:8,configur:1,content:10,dashboard:9,deploy:11,detail:9,dev:11,develop:11,docker:11,document:2,email:11,endpoint:[2,13],environ:11,fail:12,featur:[8,9],first:8,fittracke:[8,10,12],fix:8,french:8,from:11,improv:8,instal:11,issu:8,list:9,log:8,map:11,minor:8,misc:8,prefer:9,prerequisit:11,prod:11,product:11,pull:8,pypi:[8,11],record:3,releas:8,request:8,server:11,sourc:11,sport:4,start:12,statist:[5,8,9],tabl:10,tile:11,translat:9,troubleshoot:13,upgrad:11,user:[6,14],variabl:11,version:8,workout:[7,9]}})

diff --git a/docs/features.html b/docs/features.html
@@ -214,6 +214,7 @@
 <li><p>Running</p></li>
 <li><p>Skiing (Alpine) (<strong>new in 0.5.0</strong>)</p></li>
 <li><p>Skiing (Cross Country)  (<strong>new in 0.5.0</strong>)</p></li>
+<li><p>Snowshoes  (<strong>new in 0.5.2</strong>)</p></li>
 <li><p>Trail  (<strong>new in 0.5.0</strong>)</p></li>
 <li><p>Walking</p></li>
 </ul>
@@ -224,6 +225,7 @@
 <dt>(<em>new in 0.5.0</em>) Stopped speed threshold used by <a class="reference external" href="https://github.com/tkrajina/gpxpy">gpxpy</a> is not the default one for the following sports (0.1 km/h instead of 1 km/h):</dt><dd><ul>
 <li><p>Hiking</p></li>
 <li><p>Skiing (Cross Country)</p></li>
+<li><p>Snowshoes</p></li>
 <li><p>Trail</p></li>
 <li><p>Walking</p></li>
 </ul>

diff --git a/docsrc/source/features.rst b/docsrc/source/features.rst
@@ -61,11 +61,13 @@ Workouts
      - Running
      - Skiing (Alpine) (**new in 0.5.0**)
      - Skiing (Cross Country)  (**new in 0.5.0**)
+     - Snowshoes  (**new in 0.5.2**)
      - Trail  (**new in 0.5.0**)
      - Walking
 - (*new in 0.5.0*) Stopped speed threshold used by `gpxpy <https://github.com/tkrajina/gpxpy>`_ is not the default one for the following sports (0.1 km/h instead of 1 km/h):
      - Hiking
      - Skiing (Cross Country)
+     - Snowshoes
      - Trail
      - Walking
 
